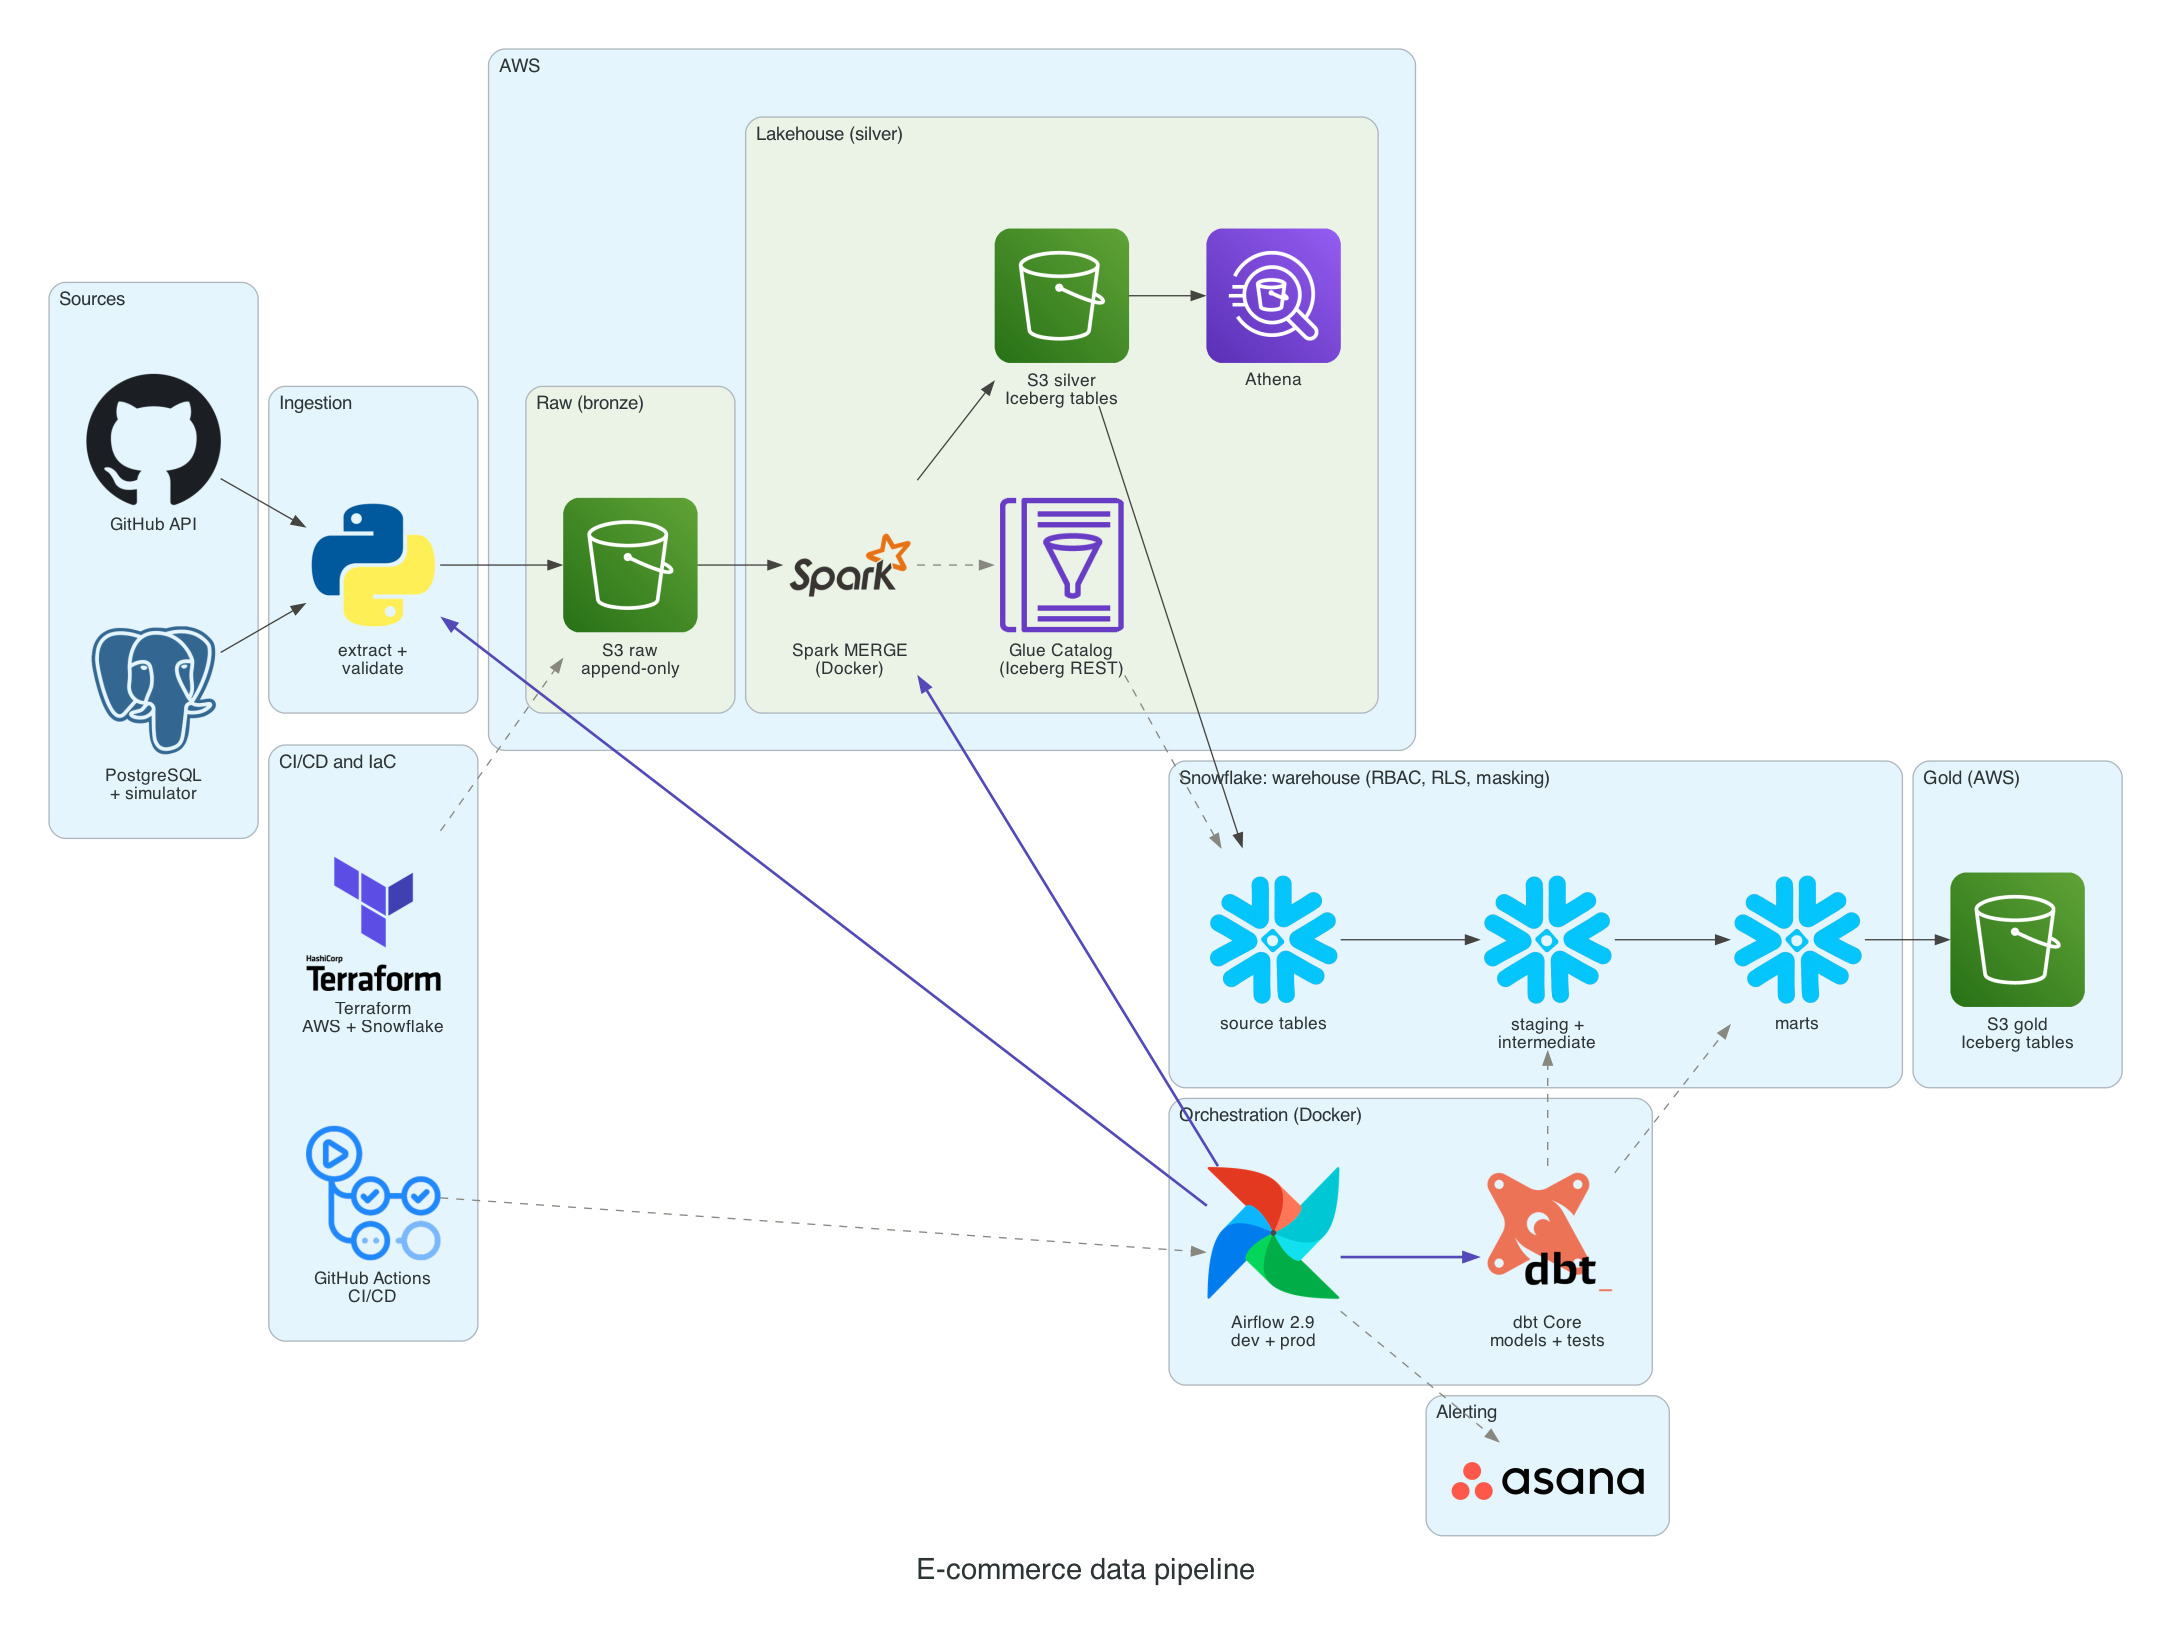
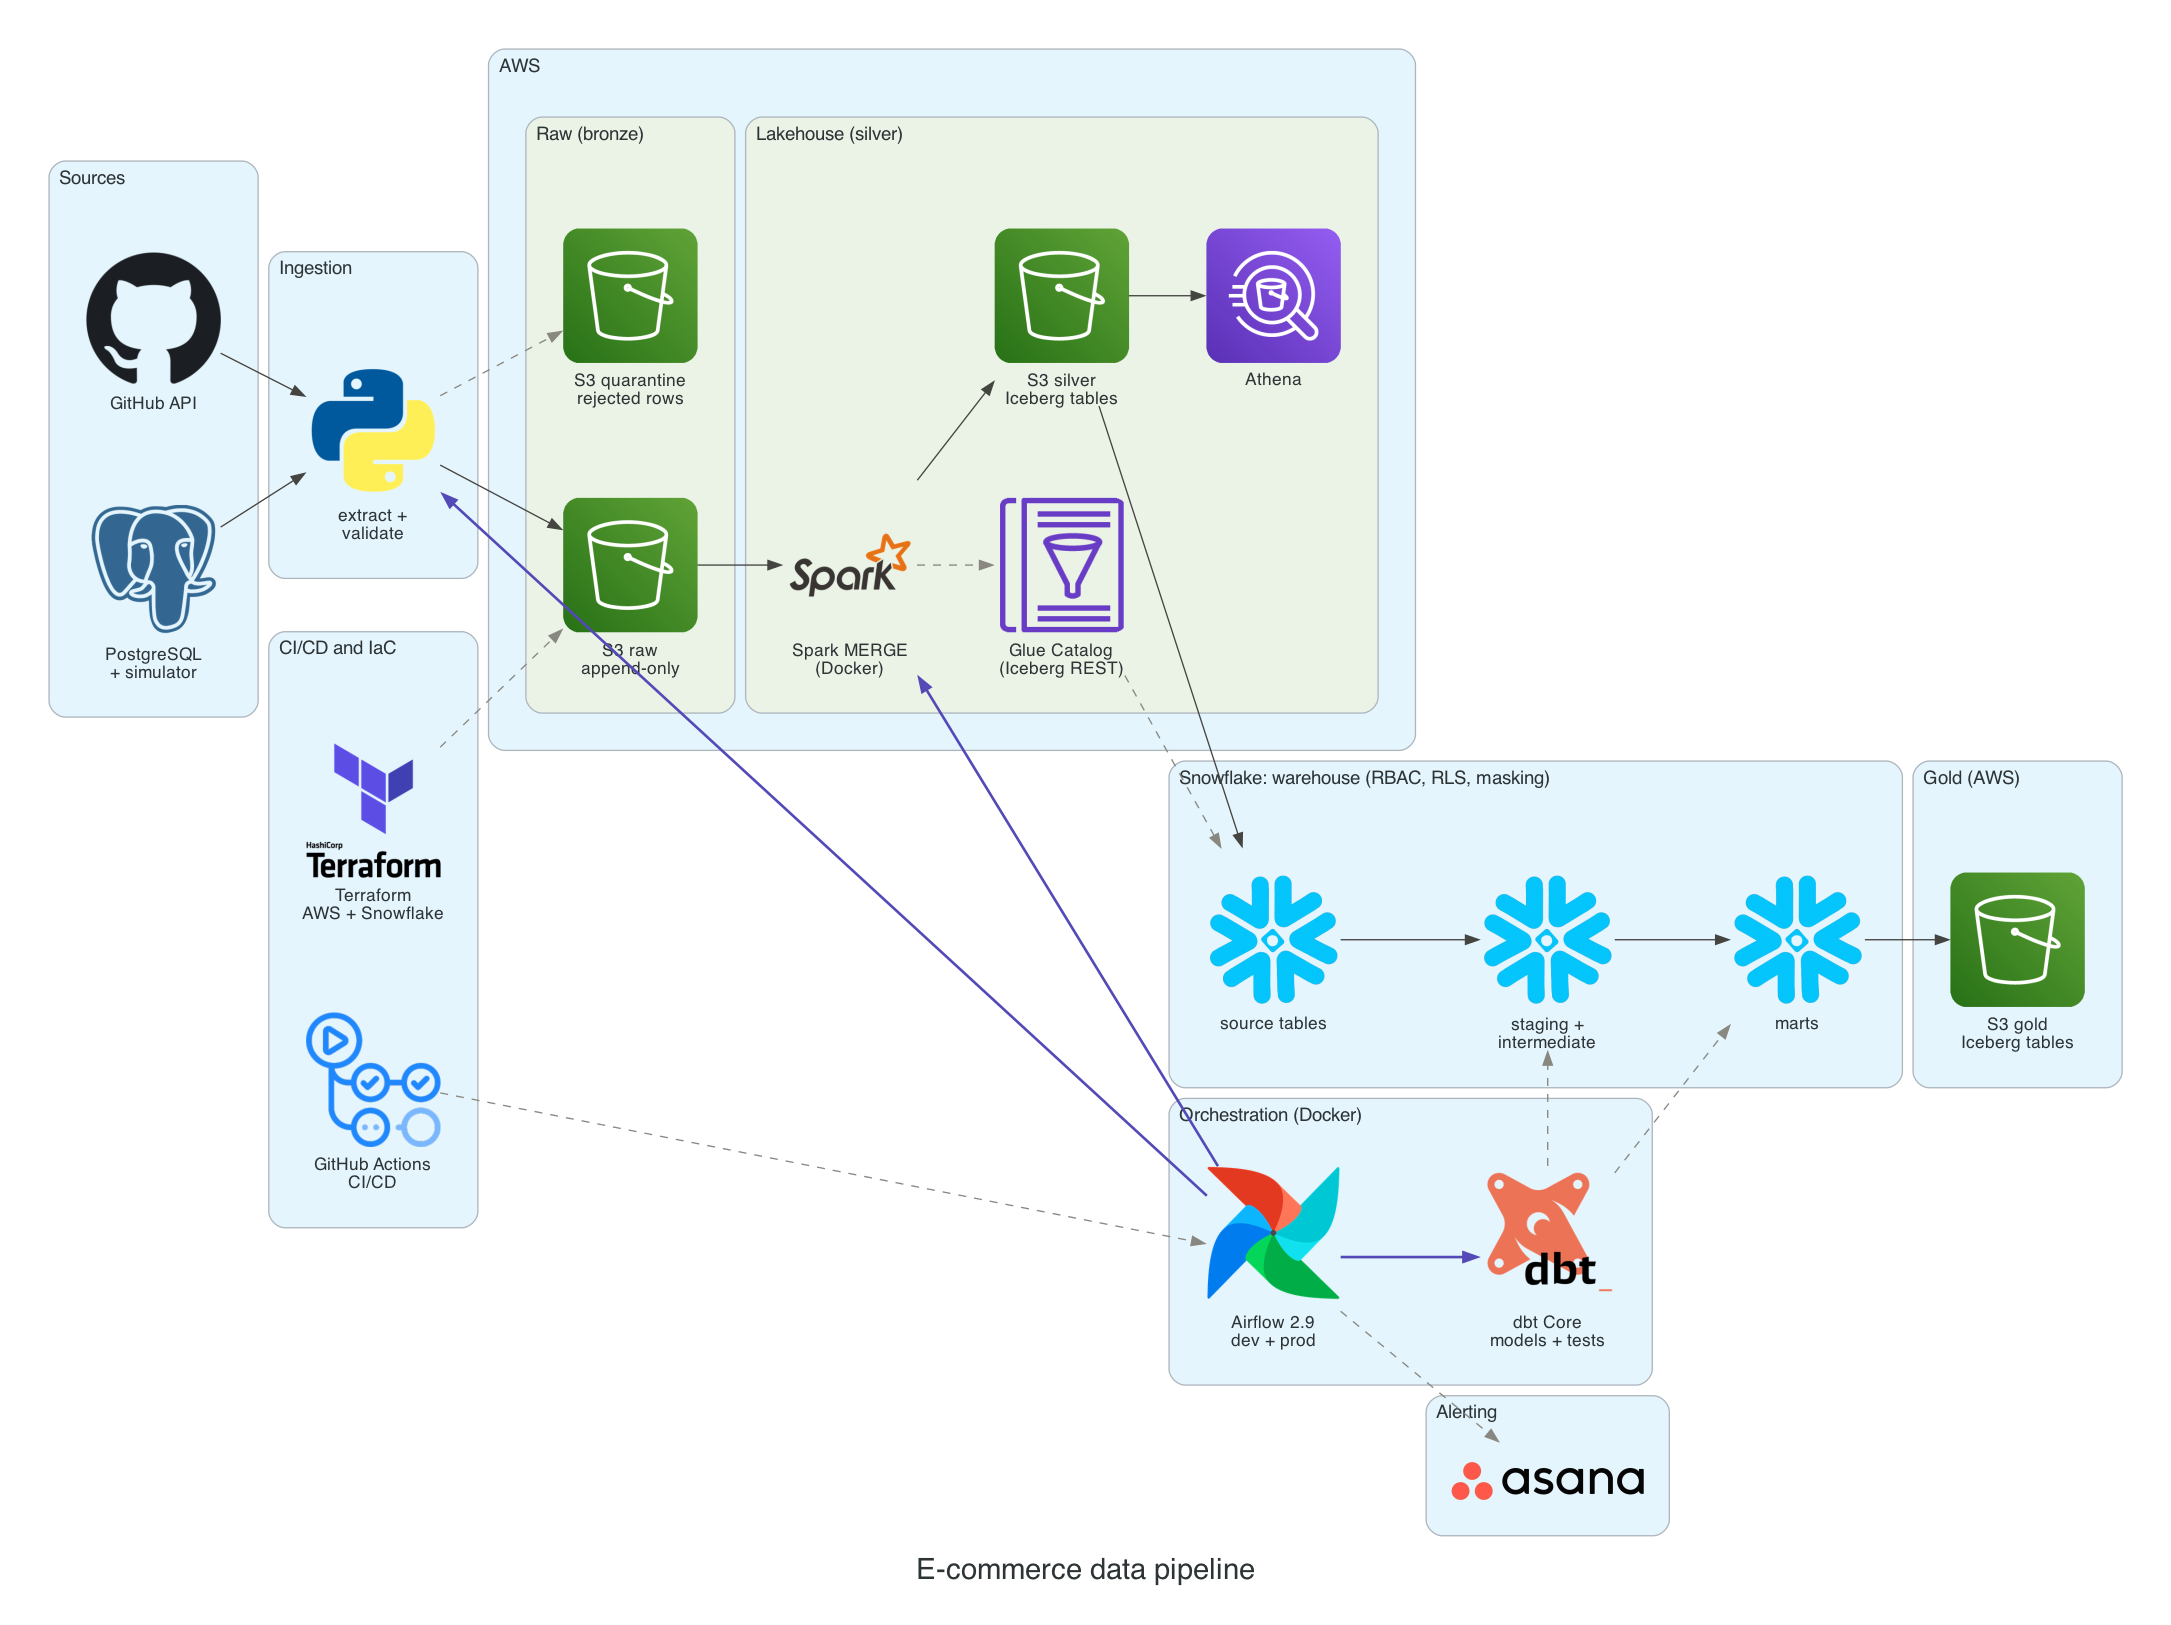
docs: S3 quarantine on the architecture picture; build log Q&A on the diagram, dbt layers and Athena

diff --git a/docs/diagrams/architecture.py b/docs/diagrams/architecture.py
@@ -69,6 +69,7 @@ with Diagram(
     with Cluster("AWS", graph_attr=CLUSTER_ATTR):
         with Cluster("Raw (bronze)", graph_attr=CLUSTER_ATTR):
             raw = S3("S3 raw\nappend-only")
+            quarantine = S3("S3 quarantine\nrejected rows")
         with Cluster("Lakehouse (silver)", graph_attr=CLUSTER_ATTR):
             spark = Spark("Spark MERGE\n(Docker)")
             iceberg_tables = S3("S3 silver\nIceberg tables")
@@ -108,6 +109,7 @@ with Diagram(
     postgres >> Edge(**DATA_FLOW) >> ingestion
     github >> Edge(**DATA_FLOW) >> ingestion
     ingestion >> Edge(**DATA_FLOW) >> raw
+    ingestion >> Edge(**METADATA) >> quarantine  # validate.py: rows that fail the quality gate
     raw >> Edge(**DATA_FLOW) >> spark
     spark >> Edge(**DATA_FLOW) >> iceberg_tables
     spark >> Edge(**METADATA) >> glue_catalog

diff --git a/PROGRESS_LOG.md b/PROGRESS_LOG.md
@@ -2040,10 +2040,41 @@ documentation commit, deleting the recreated branch locally and on GitHub → PR
   ("diagram as code" with official vendor icons: PostgreSQL, GitHub, Airflow, Spark, dbt,
   S3, Glue, Athena, Snowflake) generates `docs/images/architecture.png`, shown at the top of
   the README's Architecture section; the Mermaid map stays below as the detailed view. Iceberg
-  is drawn as S3 (its tables are files in S3), Asana as a plain node (no icon in the
-  library). Regenerated locally (`brew install graphviz`, `uv add --dev diagrams`), so the
-  picture always comes from the script in the repo. In a company the same: diagrams as code
+  is drawn as S3 (its tables are files in S3); Asana uses the author's logo file
+  (`docs/diagrams/icons/asana_logo.webp`, a PNG copy because Graphviz cannot read WebP).
+  Regenerated locally (`brew install graphviz`, `uv add --dev diagrams`), so the picture
+  always comes from the script in the repo. In a company the same: diagrams as code
   (diagrams, Structurizr/C4, Mermaid) next to the code, rendered in CI or by hand.
+  Final layout after several review rounds: layers left to right — Sources → Ingestion →
+  AWS (Raw/bronze, Lakehouse/silver) → Snowflake (source tables → staging + intermediate →
+  marts) → Gold (S3); Orchestration (Airflow + dbt) as a bottom row, Alerting (Asana) below
+  it, CI/CD and IaC (Terraform, GitHub Actions) on the left — the picture shows the finished
+  project, README "Known limitations" says phases 7–8 are next. Graphviz lessons: every edge
+  `label` gets its own invisible column (it pushed the Snowflake icons apart unevenly), so the
+  final picture has no arrow labels; `constraint=false` draws an arrow without letting it
+  move the layout; invisible edges and `group` position and align nodes; `splines=line`
+  keeps every arrow one straight segment.
+- **Why is dbt drawn outside Snowflake, if the models live there?** dbt Core is a program in
+  the Airflow container: it generates SQL (`CREATE VIEW`, `CREATE TABLE AS SELECT`) and sends
+  it to Snowflake, which builds and stores the objects. Staging = thin 1:1 views over the
+  source tables (renames, types, UTC); intermediate = reusable logic not exposed to analysts
+  (`int_customer_versions`); marts = tables answering business questions, with grants and
+  policies (`fct_orders`, so far the only mart).
+- **Spark points to both Glue and S3 — why?** On `MERGE` Spark writes everything to S3: data
+  files (Parquet) and Iceberg metadata files (`metadata.json`, manifests). The commit is an
+  atomic swap of one pointer in Glue ("the current version is this `metadata.json`"). Glue
+  holds only that pointer; readers ask Glue where the latest version is and read the data
+  from S3.
+- **Shouldn't Athena read gold too?** Athena finds Iceberg tables through the Glue catalog.
+  Silver tables are written by Spark and registered in Glue, so Athena sees them. The marts
+  are Snowflake-managed Iceberg (catalog = Snowflake): their files are in S3, but Glue does
+  not know them. Reading gold from Athena would need the Snowflake catalog exposed (Snowflake
+  Open Catalog / Horizon via Iceberg REST) or regular registration in Glue — a deliberate
+  trade-off, not implemented.
+- **Is anything missing from the picture?** S3 quarantine (where `validate.py` puts rejected
+  rows) — added. Observability (phase 9) is added once its tool is chosen. Left out on
+  purpose: IAM roles per consumer (security detail, ADR-004), Docker as an icon (shown in the
+  labels), uv and Ruff (developer tooling, not architecture).
 - **Does the README go into `docs/` too?** No: the main `README.md` stays in the root,
   because GitHub shows it on the repo page. `docs/adr/README.md` is a separate index
   that GitHub displays when you open the folder — two files with the same name in
